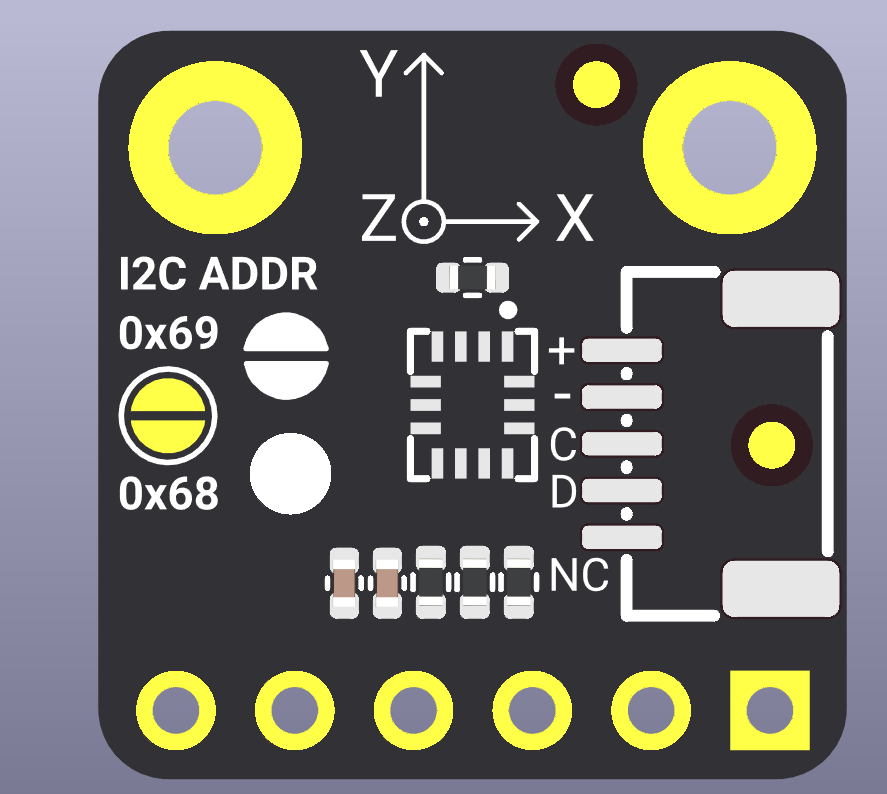
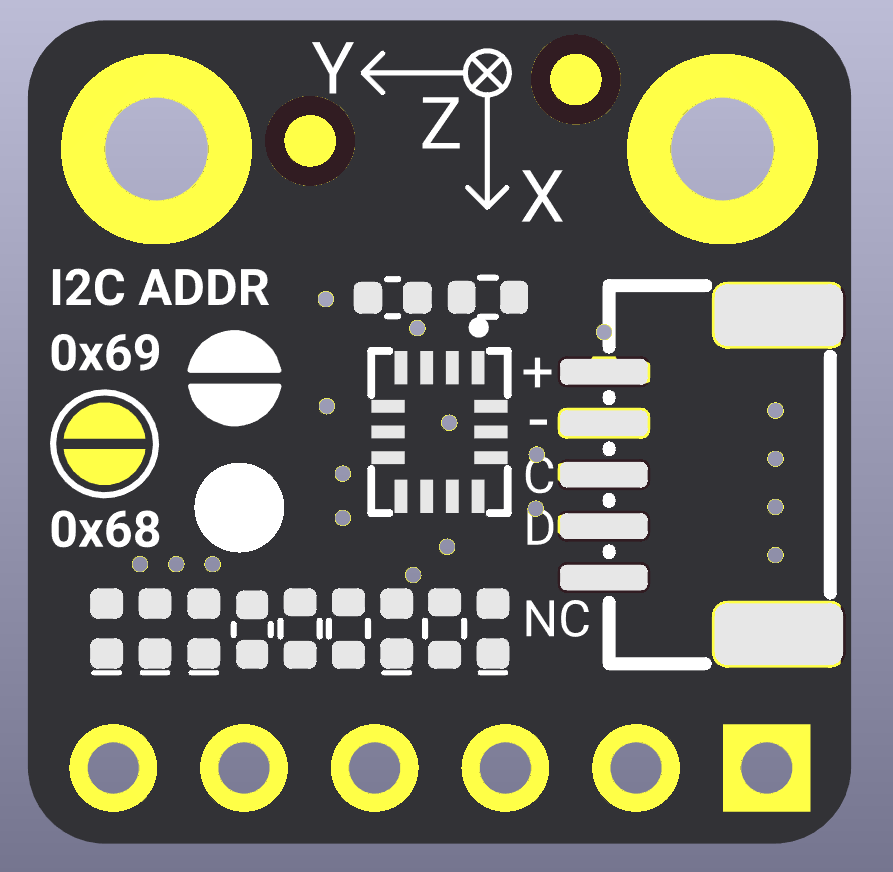
更新readme产品图

diff --git a/README.md b/README.md
@@ -18,8 +18,9 @@ This sensor is ideal for wearable devices, smart watches, fitness trackers, and 
 
 <p align="center">
   <img src="./resources/images/SEN0693(1).png" width="45%">
-  <img src="./resources/images/SEN0693(2).png" width="40%">
+  <img src="./resources/images/SEN0693(2).png" width="45%">
 </p>
+
 
 ## Product Link (https://www.dfrobot.com)
     SKU: SEN0693

diff --git a/python/raspberrypi/README.md b/python/raspberrypi/README.md
@@ -19,8 +19,9 @@ This sensor is ideal for wearable devices, smart watches, fitness trackers, and 
 
 <p align="center">
   <img src="../../resources/images/SEN0693(1).png" width="45%">
-  <img src="../../resources/images/SEN0693(2).png" width="40%">
+  <img src="../../resources/images/SEN0693(2).png" width="45%">
 </p>
+
 
 
 
